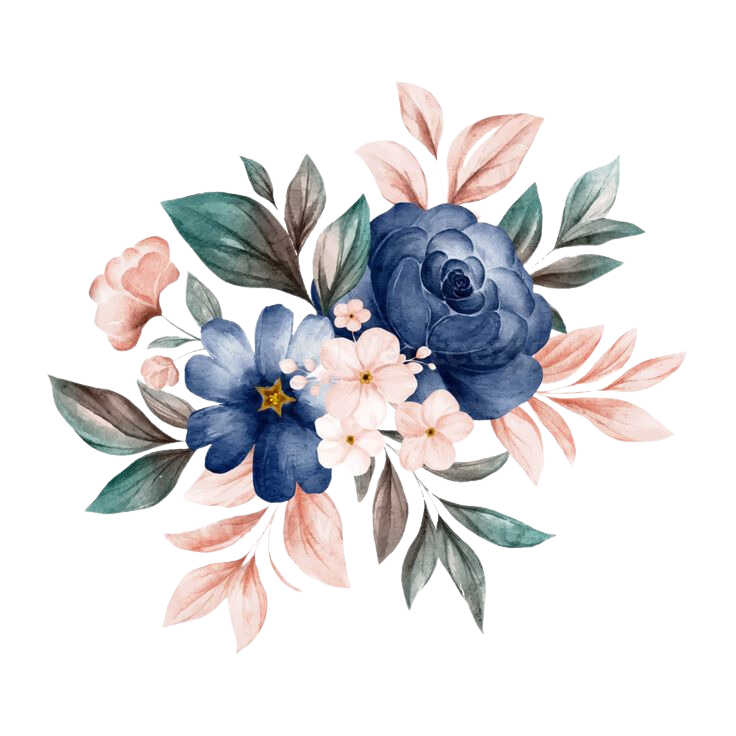
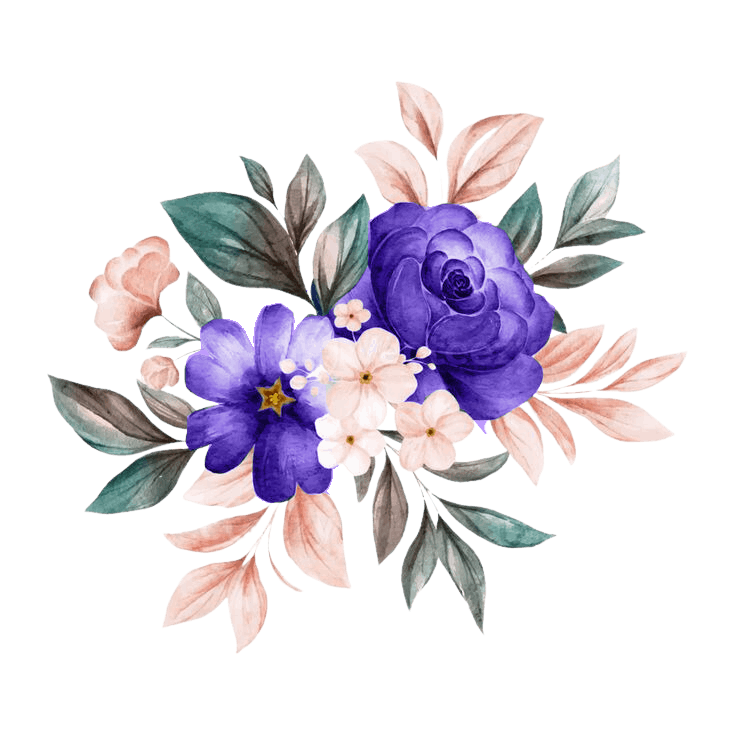
DFS-87700

Changed region(s): [[0.25, 0.25, 0.75, 0.6875]]

diff --git a/src/app/commons/components/music-player/music-player.component.ts b/src/app/commons/components/music-player/music-player.component.ts
@@ -16,13 +16,13 @@ export class MusicPlayerComponent implements OnChanges {
   ];
 
   ngAfterViewInit() {
-    // Aquí puedes acceder correctamente al audioPlayer después de que el componente haya sido inicializado.
     const audioPlayer = this.audioPlayer.nativeElement;
     audioPlayer.ontimeupdate = () => {
       this.currentProgress =
         (audioPlayer.currentTime / audioPlayer.duration) * 100 || 0;
     };
   }
+
 
   ngOnChanges(changes: SimpleChanges): void {
     if (changes['musicPlay'] && changes['musicPlay'].currentValue === true) {
@@ -48,110 +48,7 @@ export class MusicPlayerComponent implements OnChanges {
     this.playAudio();
   }
 
-
-
-//   togglePlay(): void {
-//   const audioPlayer = document.querySelector('audio') as HTMLAudioElement;
-//   if (this.isPlaying) {
-//     this.isPlaying=false;
-//     audioPlayer.pause();
-
-//   } else {
-//     this.isPlaying=true;
-//     this.playAudio();
-//   }
-
-//   this.cdRef.detectChanges();
-// }
-
-
-// playAudio(): void {
-//   const audioPlayer = document.querySelector('audio') as HTMLAudioElement;
-//   audioPlayer.src = this.playlist[this.currentTrackIndex].url;
-//   audioPlayer.play();
-//   this.isPlaying = true;
-
-//   audioPlayer.ontimeupdate = () => {
-//     this.currentProgress =
-//       (audioPlayer.currentTime / audioPlayer.duration) * 100 || 0;
-//   };
-
-//   audioPlayer.onended = () => {
-//     if (this.isRepeat) {
-//       this.playAudio();
-//     } else {
-//       this.playNext();
-//     }
-//   };
-// }
-
-
-
 constructor(private cdRef: ChangeDetectorRef){}
-
-  // playNext(): void {
-  //   if (this.isShuffle) {
-  //     this.currentTrackIndex = Math.floor(
-  //       Math.random() * this.playlist.length
-  //     );
-  //   } else {
-  //     this.currentTrackIndex =
-  //       (this.currentTrackIndex + 1) % this.playlist.length;
-  //   }
-  //   this.playAudio();
-  // }
-
-  // playPrevious(): void {
-  //   this.currentTrackIndex =
-  //     (this.currentTrackIndex - 1 + this.playlist.length) %
-  //     this.playlist.length;
-  //   this.playAudio();
-  // }
-
-  // togglePlay(): void {
-  //   const audioPlayer = document.querySelector('audio') as HTMLAudioElement;
-
-  //   if (this.isPlaying) {
-  //     // Pausar el audio
-  //     audioPlayer.pause();
-  //     this.isPlaying = false;
-  //   } else {
-  //     // Reanudar o iniciar reproducción
-  //     if (!audioPlayer.src || audioPlayer.src !== this.playlist[this.currentTrackIndex].url) {
-  //       this.playAudio(true); // Reproducir desde el principio si el src no coincide
-  //     } else {
-  //       audioPlayer.play(); // Reanudar desde el punto actual
-  //     }
-  //     this.isPlaying = true;
-  //   }
-
-  //   this.cdRef.detectChanges();
-  // }
-
-  // playAudio(resetProgress: boolean = false): void {
-  //   const audioPlayer = document.querySelector('audio') as HTMLAudioElement;
-
-  //   if (resetProgress || audioPlayer.src !== this.playlist[this.currentTrackIndex].url) {
-  //     audioPlayer.src = this.playlist[this.currentTrackIndex].url;
-  //     audioPlayer.currentTime = 0; // Reinicia el progreso si es necesario
-  //   }
-
-  //   audioPlayer.play();
-  //   this.isPlaying = true;
-
-  //   audioPlayer.ontimeupdate = () => {
-  //     this.currentProgress =
-  //       (audioPlayer.currentTime / audioPlayer.duration) * 100 || 0;
-  //   };
-
-  //   audioPlayer.onended = () => {
-  //     if (this.isRepeat) {
-  //       this.playAudio(true);
-  //     } else {
-  //       this.playNext();
-  //     }
-  //   };
-  // }
 
   togglePlay(): void {
     const audioPlayer = document.querySelector('audio') as HTMLAudioElement;
@@ -206,27 +103,6 @@ constructor(private cdRef: ChangeDetectorRef){}
       }
     };
   }
-
-
-// Si this.isRepeat es true, que el siguiente metodo coloque la misma cancion:
-
-  // playNext(): void {
-  //   const audioPlayer = document.querySelector('audio') as HTMLAudioElement;
-
-  //   if (this.isShuffle) {
-  //     this.currentTrackIndex = Math.floor(
-  //       Math.random() * this.playlist.length
-  //     );
-  //   } else {
-  //     this.currentTrackIndex =
-  //       (this.currentTrackIndex + 1) % this.playlist.length;
-  //   }
-
-  //   audioPlayer.src = this.playlist[this.currentTrackIndex].url; // Cambiar de canción
-  //   audioPlayer.currentTime = 0; // Reiniciar el progreso
-  //   this.playAudio(true); // Reproducir la nueva canción
-  // }
-
 
   playNext(): void {
     const audioPlayer = document.querySelector('audio') as HTMLAudioElement;
@@ -286,4 +162,6 @@ constructor(private cdRef: ChangeDetectorRef){}
     audioPlayer.currentTime = (Number(input.value) / 100) * audioPlayer.duration;
     this.currentProgress = Number(input.value);
   }
+
+
 }

diff --git a/src/app/wedding/components/welcome-section/welcome-section.component.ts b/src/app/wedding/components/welcome-section/welcome-section.component.ts
@@ -46,7 +46,7 @@ export class WelcomeSectionComponent implements OnInit, AfterViewInit  {
       })
       .to(textElement, {
         duration: 2,              // Cambio de color
-        color: "rgb(167, 55, 219)",         // Cambia el color del texto
+        color: "rgb(160, 66, 204)",         // Cambia el color del texto
         ease: "none"
       })
       .to(".Aragon.text:before", {

diff --git a/src/app/commons/components/music-player/music-player.component.html b/src/app/commons/components/music-player/music-player.component.html
@@ -6,6 +6,7 @@
     <input type="range" [value]="currentProgress" (input)="updateProgress($event)" />
   </div>
 
+
   <!-- Controles de reproducción -->
   <div class="controls">
      <!-- Botón de Shuffle -->
